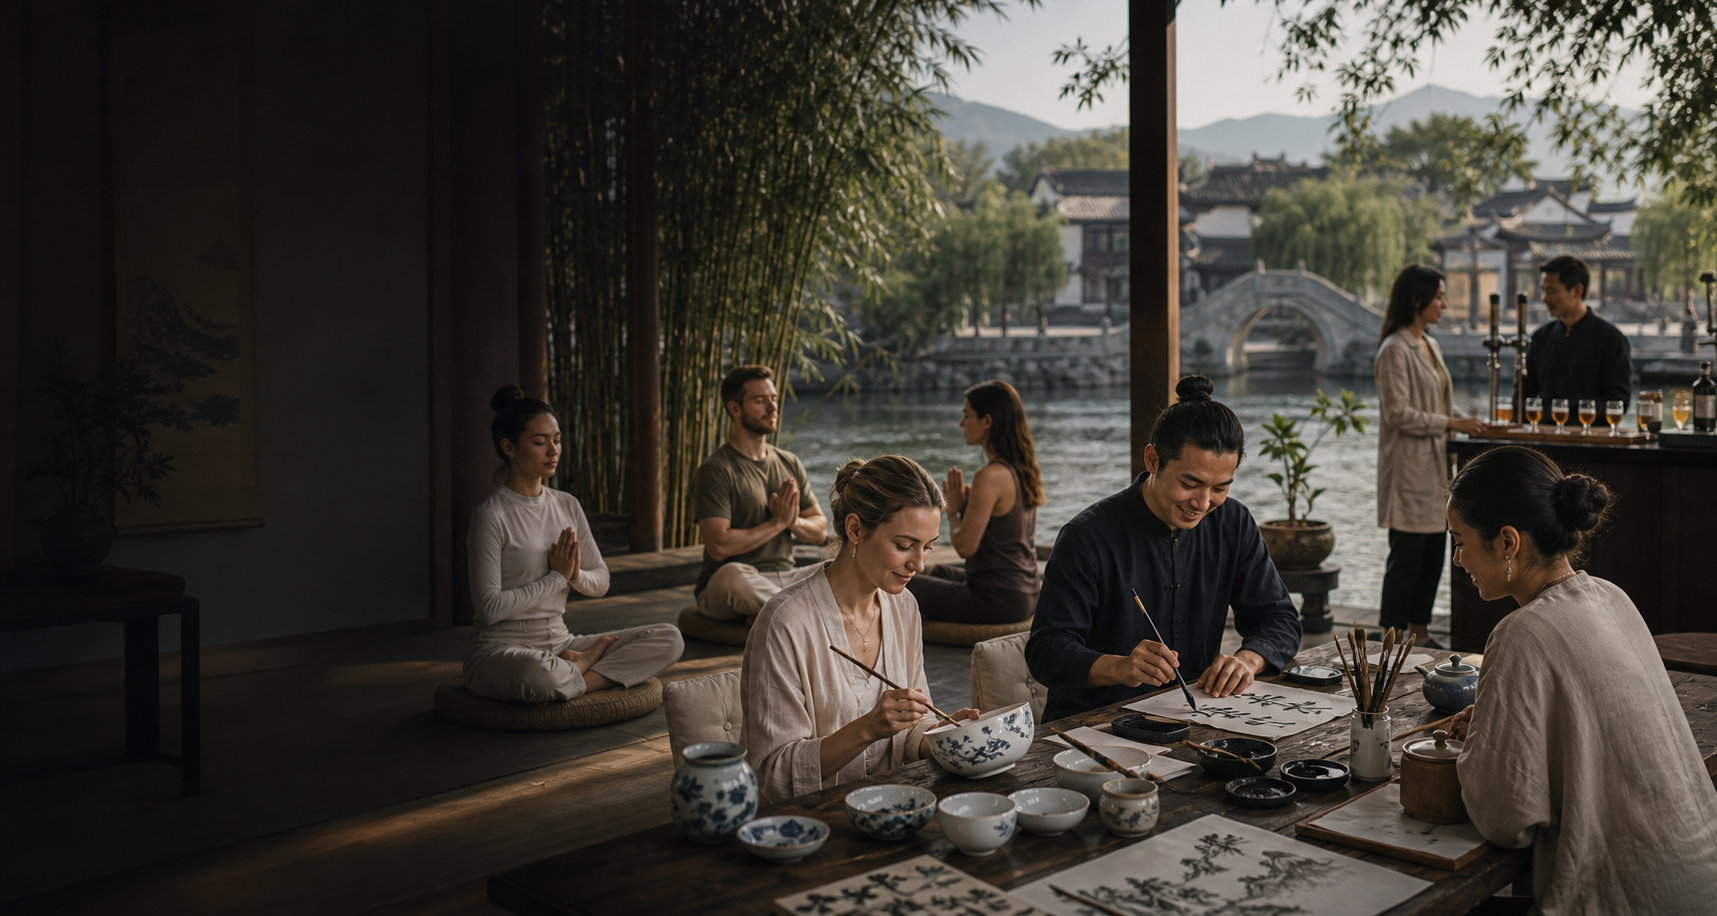
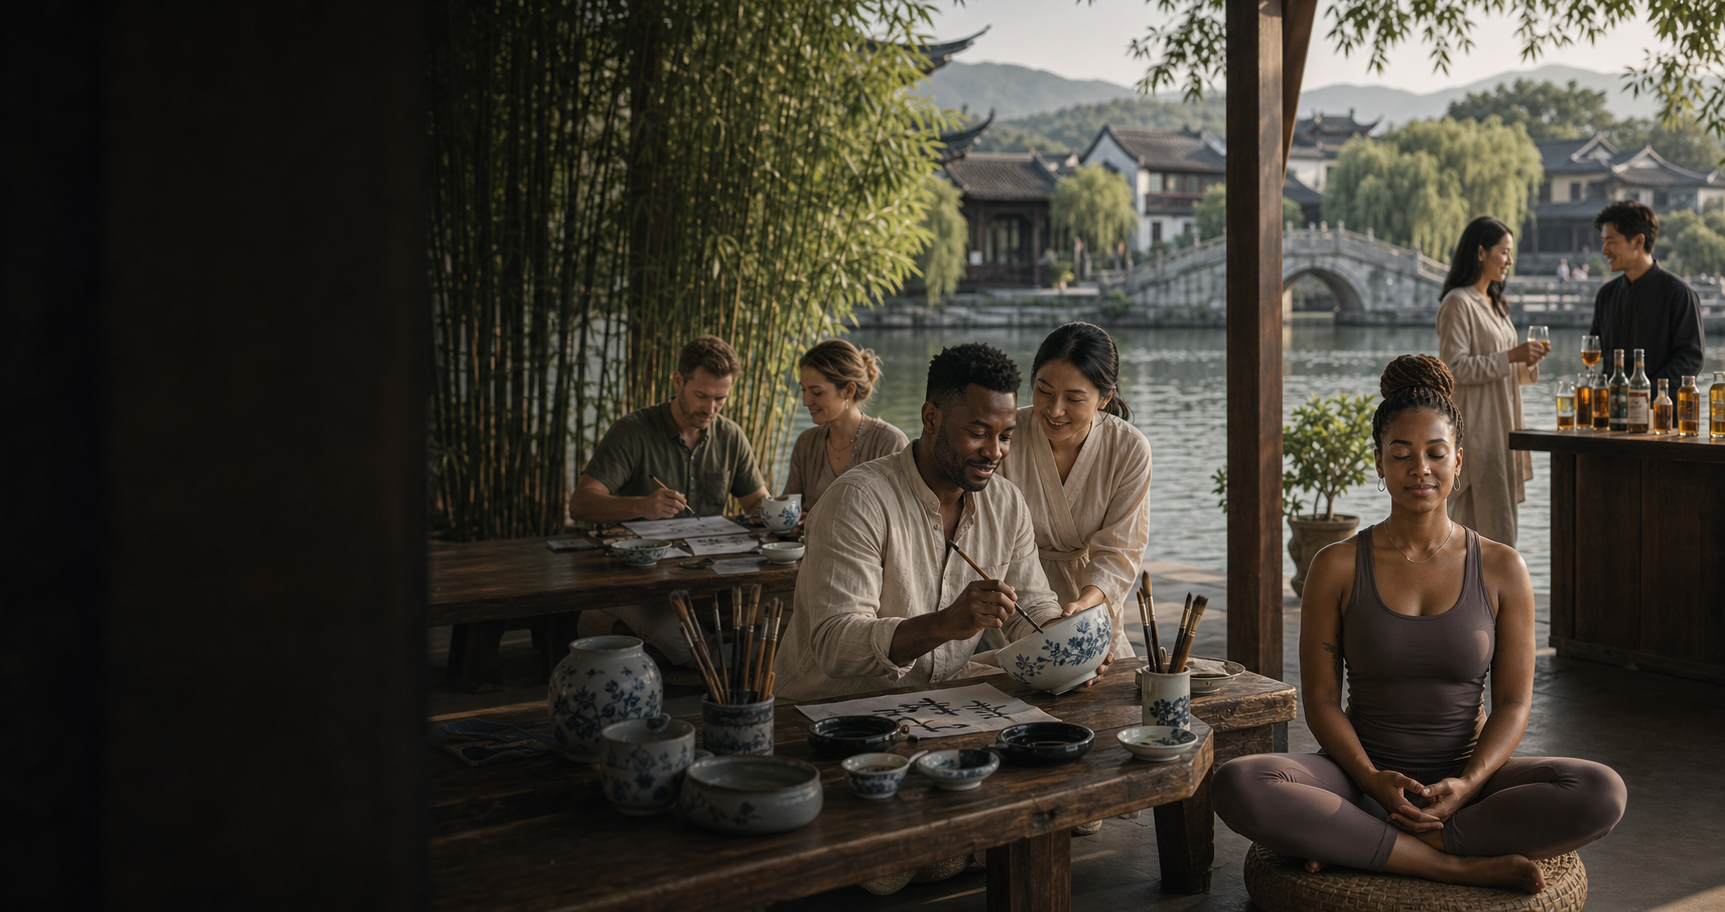
Add diverse guests to wellness retreat visuals

diff --git a/internal/output/wellness-qa-site-2/index.html b/internal/output/wellness-qa-site-2/index.html
@@ -25,7 +25,7 @@
         <div class="hero-copy">
           <p class="eyebrow">China Mind-Body Wellness Retreat</p>
           <h1>10-Day Mind-Body Wellness Retreat</h1>
-          <p class="hero-text">A premium China retreat blending meditation, calligraphy, ink painting, porcelain craft, water-town walks, West Lake ambience, and relaxed craft beer tasting.</p>
+          <p class="hero-text">A premium China retreat for diverse international guests, blending meditation, calligraphy, ink painting, porcelain craft, water-town walks, West Lake ambience, and relaxed craft beer tasting.</p>
           <div class="hero-actions">
             <a class="button primary" href="#qa">Ask retreat questions</a>
             <a class="button ghost" href="camp/China_Wellness_Cultural_Immersion_Retreat_10-Day_Program.pdf">Open brochure</a>

diff --git a/internal/wellness-brochure-v2.html b/internal/wellness-brochure-v2.html
@@ -293,7 +293,7 @@
       <div class="cover-inner">
         <p class="eyebrow">Mind-Body Wellness Cultural Immersion Retreat</p>
         <h1>身心疗愈文化沉浸营</h1>
-        <p class="cover-subtitle">以浙江、上海为主要场景，结合打坐冥想、书法、国画、瓷器制作与画瓷、水城古镇、西湖意境、啤酒厂参观与精酿品鉴，设计一段面向高端国际人群的 10 天身心疗愈旅程。</p>
+        <p class="cover-subtitle">以浙江、上海为主要场景，面向多元国际高端人群，结合打坐冥想、书法、国画、瓷器制作与画瓷、水城古镇、西湖意境、啤酒厂参观与精酿品鉴，设计一段 10 天身心疗愈旅程。</p>
         <div class="cover-meta">
           <div><strong>10 Days</strong><span>慢节奏文化沉浸</span></div>
           <div><strong>Zhejiang</strong><span>山水、茶与在地生活</span></div>

diff --git a/wellness-qa/index.html b/wellness-qa/index.html
@@ -25,7 +25,7 @@
         <div class="hero-copy">
           <p class="eyebrow">China Mind-Body Wellness Retreat</p>
           <h1>10-Day Mind-Body Wellness Retreat</h1>
-          <p class="hero-text">A premium China retreat blending meditation, calligraphy, ink painting, porcelain craft, water-town walks, West Lake ambience, and relaxed craft beer tasting.</p>
+          <p class="hero-text">A premium China retreat for diverse international guests, blending meditation, calligraphy, ink painting, porcelain craft, water-town walks, West Lake ambience, and relaxed craft beer tasting.</p>
           <div class="hero-actions">
             <a class="button primary" href="#qa">Ask retreat questions</a>
             <a class="button ghost" href="../camp/China_Wellness_Cultural_Immersion_Retreat_10-Day_Program.pdf">Open brochure</a>